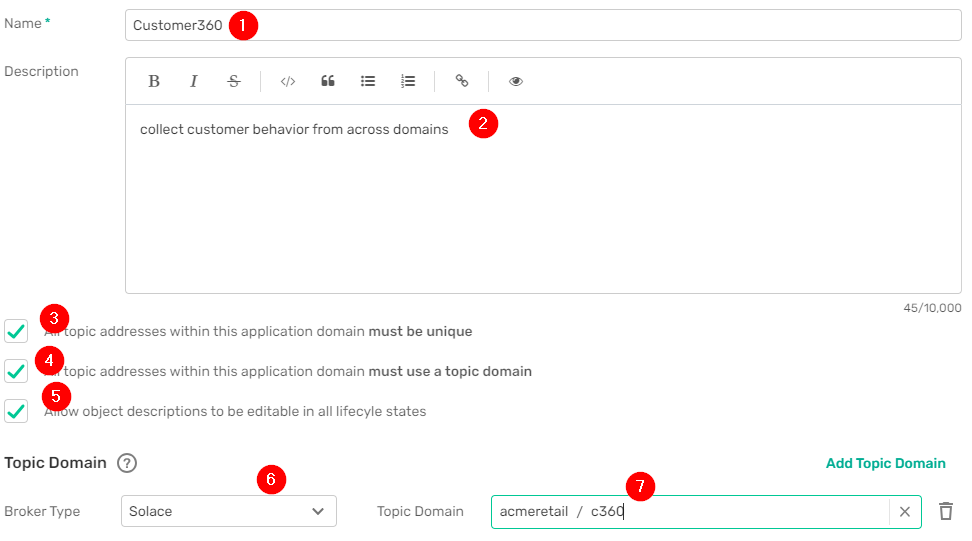
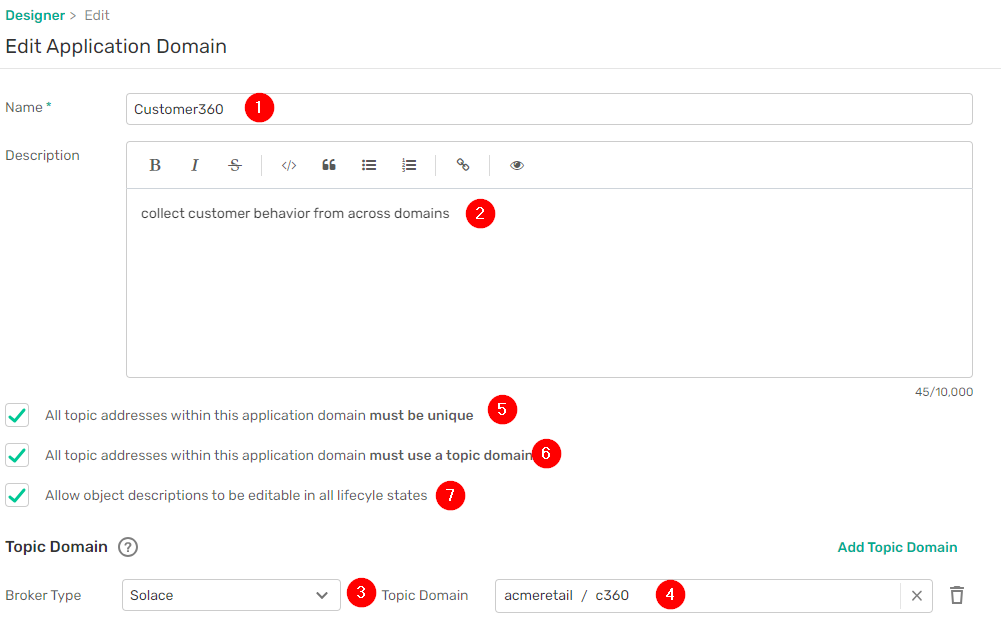
making corrections per Tamimi

diff --git a/markdown/ep-lifecycle/ep-lifecycle.md b/markdown/ep-lifecycle/ep-lifecycle.md
@@ -11,13 +11,15 @@ feedback link: https://github.com/SolaceDev/solace-dev-codelabs/blob/master/mark
 
 ## What you'll learn: Overview
 
-Duration: 0:05:00
+Duration: 0:03:00
 
-Enter a codelab overview here: what & why and github repo link where you can find related code if applicable
+Delivering innovative event-driven features to the hands of users means moving micro-integrations from development to production.  That means getting the right event infrastructure in the right environment at the right time. Event Portal makes that easier, faster and more resilient.
+
+This code lab takes you through the lifecycle of a new event-driven application, from finding relevant events to jump start development, to generating rock-solid code, to automated event configuration with your existing CICD pipeline.
 
 ## What you need: Prerequisites
 
-Duration: 0:07:00
+Duration: 0:02:00
 
 **For all sections, you'll need to:**
 - Complete the *Connecting Event Portal to a runtime Event Broker* code lab
@@ -27,30 +29,40 @@ Duration: 0:07:00
 - A GitHub account.  If you don’t have one, you can [get one free](https://github.com/signup). 
 
 ## Discover event-driven stuff you didn’t know existed
+Duration: 0:04:00
 ### Find interesting events to use in your solution
 1. In the home screen of Solace Cloud, click on Catalog.<br>![Image](img/1.png)<br><br>
 1. Within Catalog, click on the Events tab, then search for ```customer``` in the search box.  You’ll note that there are two existing customer events that would be perfect.<br>![Image](img/2.png)<br><br>
 1. Also, look for order related events by searching for ```order```<br>![Image](img/3.png)<br><br>
 
 ## Easily design EDA solutions, together 
+Duration: 0:15:00
 ### Create an Application Domain to house your application, event and schema
 1. Now that we have candidate events, click on the Designer icon in the left bar (1), then Create Application Domain. (2)<br>![Image](img/4.png)<br><br>
 1. Configure the domain:<br>
 Name (1):  ```Customer360```<br>
-Description (2): ```360 view of customer```<br>
-Select all 3 checkboxes, enforcing topic uniqueness (3), enforcing topic domain (4) and allowing descriptions to be edited  (5)<br>
-Add a Solace (6) topic domain of ``acmeretail/c360`` (7)<br>
+Description (2): ```collect customer behavior from across domains```<br>
+Add a Solace (3) topic domain of ``acmeretail/c360`` (4)<br>
+Select all 3 checkboxes, enforcing topic uniqueness (5), enforcing topic domain (6) and allowing descriptions to be edited  (7)<br>
+
 Then click on OK
 <br>![Image](img/5.png)<br><br>
 ### Graphically create your application
+1. Go into the newly created Customer360 domain.<br><br>
 1. Click on Add Objects and drag “New Application” to the canvas and name it `Customer 360`.<br>![Image](img/6.png)<br><br>
 1. Again click on Add Objects, and drag a Shared Event to the canvas<br>![Image](img/7.png)<br><br>
-1. In the popup, select *Order Created*, then click on Add. <br>![Image](img/8.png)<br><br>
-1. Repeat this process to add two more shared events. For the events, select *Customer Updated* and *Customer Created*, which you discovered in the catalog earlier. 
-1. To define which events Customer 360 subscribe to, hover over the *Order Created* event and drag the arrow to the *Customer360* application.  Repeat for *Customer Created* and *Customer Updated* events.<br>![Image](img/10.png)<br><br>
-
+1. In the popup, select *Customer Updated*, then click on Add.
+1. Repeat this process to add the *Customer Created* shared event, which you discovered in the catalog earlier. 
+1. To define which events Customer 360 subscribes to, hover over the *Order Created* event and drag the arrow to the *Customer360* application.  Repeat for *Customer Created* and *Customer Updated* events.<br>![Image](img/10.png)<br><br>
+1. Drag a “New Event” onto the canvas and call it ```Customer Insight Generated```.
+1. To define the event Customer 360 publishes, hover over the Customer360 application and drag the arrow to the Customer Insight Generated event.<br>![Image](img/published.png)<br><br>
+### Add an event directly from the catalog
+1. Navigate back to the catalog (1), click on the Events tab (2), select *Order Created* (3). <br>![Image](img/000086.png)<br><br>
+1. In the right hand column, click on the latest version  <br>![Image](img/000087.png)<br><br>
+1. Click on Associate with Application<br>![Image](img/000088.png)<br><br>
+1. Select the Customer360 domain (1), the latest Customer360 version (2), and specify that you want to subscribe to the event (3).  Then click on Save.<br>![Image](img/000089.png)<br><br>
 ### Create consumers for your application
-1. Click on the Customer 360 application and in the resulting pop up, click on Open Application<br>![Image](img/12.png)<br><br>
+1. In the resulting screen, scroll down to the Referenced By section, click on the three dots next to Customer 360, and then Open Application<br>![Image](img/000091.png)<br><br>
 1. Click on Edit This Version<br>![Image](img/13.png)<br><br>
 1. Click on the Consumers tab (1), then on Add Consumer (2)<br>![Image](img/14.png)<br><br>
 1. Name the queue ```C360.ORDERS``` (1)<br>
@@ -61,8 +73,25 @@ Then click on Add Subscriptions (4) <br>![Image](img/15.png)<br><br>
 1. Repeat the process to create the consumer for the two Customer events, naming the queue ```C360.CUSTOMERS```   When you click on Add Subscriptions, select both of the Customer events and a subscription for both.<br>![Image](img/17.png)<br><br>
 1. To save your changes, click on Save & Close.<br>![Image](img/18.png)<br><br>
 
+### Create a new Customer Insight Generated event
+1. You will use this schema file for the payload of the event.  Download it and save it to your hard drive. [Schema file](https://raw.githubusercontent.com/SolaceLabs/PostmanScripts/main/customerinsight.json)<br>
+1. Click on the Schemas tab (1)for the Customer360 domain, then click on Create Schema(2)<br>![Image](img/19.png)
+1. Name the schema ```Customer Insight```, then the Import from File button.  Navigate to the ```customerinsight.json``` schema file you just downloaded.<br>![Image](img/20.png)
+1. Click on Save and Close.
+1. Click on the Events tab (1) at the top of the screen, then click on Customer Insight Generated (2). <br>![Image](img/21.png)
+1. Click on Edit This Version<br>![Image](img/22.png)
+1. Define the Topic Address.  Start by clicking on the field and selecting the ```acmeretail/c360``` topic domain<br>![Image](img/23.png)
+1. Type in the remainder of the topic address, using brackets for parameters.  The final result should be: ```acmeretail/c360/customerinsight/generated/v1/{insighttype}/{customerid}```<br>![Image](img/24.png)
+
+1. Scroll down further and click on Select Schema.<br>![Image](img/schema.png)
+1. Select the Customer Insight schema you just created.<br>![Image](img/25.png)
+> aside positive
+> In a more production-ready use case, you would likely use an enumeration for {insighttype}.  For speed you will use an unbounded variable in this lab. 
+
+
 ## Give your developers a headstart with code generation
 ### AsyncAPI export
+Duration: 0:05:00
 1. Click on Applications (1) in the top menu, then on Customer360(2)<br>![Image](img/26.png)<br><br>
 1. Click on the three dots next to version 0.1.0 and click on Download AsyncAPI.  Save the file on your hard drive.<br>![Image](img/27.png)<br><br>
 1. In a web browser, navigate to AsyncAPI Studio at  ```https://studio.asyncapi.com```<br>![Image](img/28.png)<br><br>
@@ -76,6 +105,7 @@ Then click on Add Subscriptions (4) <br>![Image](img/15.png)<br><br>
 > aside positive
 >You’ll use the source code zip file in the CICD/GitHub Actions portion of the lab.
 ## Provide exactly the events you need, when you need them
+Duration: 0:15:00
 ### Assign your application to an environment/event broker
 1. Click on Applications, then on Customer360.<br>![Image](img/32.png)<br><br>
 1. Click on the Runtime tab.<br>![Image](img/48.png)<br><br>
@@ -106,6 +136,7 @@ Then click on Add Subscriptions (4) <br>![Image](img/15.png)<br><br>
 1. In the popup, review the details of what queues will be removed.  Then click on Remove<br>![Image](img/50.png)<br><br>
 
 ## Make your existing CICD even better
+Duration: 0:20:00
 > aside positive
 >You need to have a GitHub account for this portion.  If you don’t have one, you can [get one free](https://github.com/signup). 
 
@@ -142,9 +173,9 @@ Then click on Add Subscriptions (4) <br>![Image](img/15.png)<br><br>
 
 Duration: 0:07:00
 
-✅ < Fill IN TAKEAWAY 1>   
-✅ < Fill IN TAKEAWAY 2>   
-✅ < Fill IN TAKEAWAY 3>   
+- Finding relevant events to jump start development
+- Generating rock-solid code
+- Automated event configuration with your existing CICD pipeline.
 
 ![Soly Image Caption](img/soly.gif)
 

diff --git a/markdown/ep-connect-ep-broker/ep-connect-ep-broker.md b/markdown/ep-connect-ep-broker/ep-connect-ep-broker.md
@@ -36,16 +36,16 @@ Follow the instructions here: [Getting Started with PubSub+ Standard Edition](ht
 ### Get an Event Portal Access Token
 Duration: 0:07:00
 1. Log into your newly created Solace Platform Account
-1. Go to Token Management in Event Portal <br><![Image](img/1.png)
-1. Create a token<br>![Image](img/2.png)
+1. Go to Token Management in Event Portal <br><![Image](img/1.png)<br><br>
+1. Create a token<br>![Image](img/2.png)<br><br>
 1. Name the token ```Demo Setup```
 1. Give the token full Read and Write access to:<br>
 Event Portal 2.0<br>
 Event Portal<br>
 Account Management<br>
 Environments
-1. Click on Create Token <br><br>![Image](img/4.png)
-1. Confirm that your token has the following permissions:<br>![Image](img/5.png)
+1. Click on Create Token <br><br>![Image](img/4.png)<br><br>
+1. Confirm that your token has the following permissions:<br>![Image](img/5.png)<br><br>
 1. Copy the token value and save it in a text file on your desktop. 
 > aside positive
 > This token will be used multiple times through the demo, so keep it handy.
@@ -58,45 +58,46 @@ Duration: 0:03:00
 [Environment file](https://raw.githubusercontent.com/SolaceLabs/PostmanScripts/main/EventPortalEnvironment.postman_environment.json)<br>
 [Script to populate Event Portal](https://raw.githubusercontent.com/SolaceLabs/PostmanScripts/main/PopulateEventPortaldemo.postman_collection.json)<br>
 [Script to remove all objects from  Event Portal](https://raw.githubusercontent.com/SolaceLabs/PostmanScripts/main/TearDownEventPortal.postman_collection.json)
-1. Drag the files from your hard drive to the left-hand column of Postman to import<br>![Image](img/6.png)
+1. Drag the files from your hard drive to the left-hand column of Postman to import<br>![Image](img/6.png)<br><br>
 
 ### Configure Postman with your Event Portal token
 Duration: 0:05:00
-1. Open the environment variables tab (1), select the Event Portal Environment and (2) set it as the active Environmental variable set.<br>![Image](img/7.png)
-1. Fill in the CURRENT VALUE column for  api_key with the token you generated in Event Portal and saved in a text file.<br>![Image](img/8.png)
-1. Save the environment variables.<br>![Image](img/9.png)
+1. Open the environment variables tab (1), select the Event Portal Environment and (2) set it as the active Environmental variables.<br>![Image](img/7.png)<br><br>
+1. Fill in the CURRENT VALUE column for  api_key with the token you just generated in Event Portal.<br>![Image](img/8.png)<br><br>
+1. Save the environment variables.<br>![Image](img/9.png)<br><br>
 
 ### Run the Postman script
 Duration: 0:10:00
-1. Switch back to the Collections tab, hit the three dots next to “Generate and populate Event Portal demo”, then click “Run collection”<br>![Image](img/10.png)
-1. On the next screen, click on Run Generate and populate Event Portal<br>![Image](img/11.png)
-1. Wait for the script to complete. Be Patient, there is a lot of commands to run! 
+1. Switch back to the Collections tab, hit the three dots next to “Generate and populate Event Portal demo”, then click “Run collection”<br>![Image](img/10.png)<br><br>
+1. On the next screen, click on Run Generate and populate Event Portal<br>![Image](img/11.png)<br><br>
+1. Wait for the script to complete. Be patient, there are a lot of commands to run! 
 
 
-## Connect Event Management Agent to Event Portal
+## Enable runtime configuration for your environments
 Duration: 0:03:00
-1. To guide application promotion, Event Portal models all of your runtime environments.  To do this, go to the profile icon in the lower left hand side, then click on Environments.<br>![Image](img/12.png)
-1. To allow Event Portal to configure the runtime environment, click on the three dots, then select Enable Runtime Configuration. Do this for both Test and Prod.<br>![Image](img/13.png)
+1. To guide application promotion, Event Portal models all of your runtime environments.  To do this, go to the profile icon in the lower left hand side, then click on Environments.<br>![Image](img/12.png)<br><br>
+1. To allow Event Portal to configure the runtime environment, click on the three dots, then select Enable Runtime Configuration. Do this for both Test and Prod.<br>![Image](img/13.png)<br><br>
 ## Update the event management agent to connect to your local broker
 Duration: 0:10:00
-1. Open the Runtime Event Manager (1), then go to the Event Management Agent tab (2).   Click on the 3 dots next to your Event Managment Agent (the script created one for you).  Then click on Edit Connection Details (4).<br>![Image](img/14.png)
-1. On the next screen, click on the three dots next to the PROD-solace event broker, then click on “Edit Connection Details”<br>![Image](img/15.png)
+1. Open the Runtime Event Manager (1), then go to the Event Management Agent tab (2).   Click on the 3 dots next to your Event Managment Agent (the script created one for you).  Then click on Edit Connection Details (4).<br>![Image](img/14.png)<br><br>
+1. On the next screen, click on the three dots next to the PROD-solace event broker, then click on “Edit Connection Details”<br>![Image](img/15.png)<br><br>
 1. Update the Message VPN, SEMP username and SEMP URL to point to your local broker.<br>
 Message VPN (1) is typically: ```default```<br>
 SEMP username (2) is typically: ```admin```<br>
 SEMP URL (3) can be found, if using docker by finding the brokers ip address using the following command:<br> ```docker inspect  -f '{{range.NetworkSettings.Networks}}{{.IPAddress}}{{end}}' solace```
 
-Once you have the ip address, the SEMP_URL is typically port 8080, thus ```http://<BROKER-IP>:8080```  <br><br> Once properly configured, click on Save Changes (4)<br>![Image](img/16.png)
+Once you have the ip address, the SEMP_URL is typically port 8080, thus ```http://BROKER-IP:8080```  <br><br> Once properly configured, click on Save Changes (4)<br>![Image](img/16.png)<br><br>
 
 ## Run the Event Management Agent
 Duration: 0:10:00
 
 > aside positive
 > These instructions are also on the Event Portal once you create the Event Management Agent.
+
 Now it’s time to connect the Event Portal model and the runtime broker using the Event Management Agent.
 
-1. From the main Runtime Event Manager tab, click on the three dots and go to Install Event Management Agent<br>![Image](img/emainstall.png)
-1. Click on the download button and save the file to your hard drive. <br>![Image](img/18.png)
+1. From the main Runtime Event Manager tab, click on the three dots and go to Install Event Management Agent<br>![Image](img/emainstall.png)<br><br>
+1. Click on the download button and save the file to your hard drive. <br>![Image](img/18.png)<br><br>
 1. Execute the following commands at the command line:
 ```
 export PASSWORD_ENV_VAR_1=envVarPassword1
@@ -111,18 +112,18 @@ where ```PASSWORD_ENV_VAR_1``` is the password for your locally running broker a
 4. Confirm the connection by running:<br>
 ```docker logs -f event-management-agent```<br>
 
-The last line should be: ```Started event-management agent```<br>![Image](img/19.png)
-5. Further confirm by going back to the Event Management Agents tab.  Look to see your EMA has a green “Connected” label<br>![Image](img/20.png)
+The last line should be: ```Started event-management agent```<br>![Image](img/19.png)<br><br>
+5. Further confirm by going back to the Event Management Agents tab.  Look to see your EMA has a green “Connected” label<br>![Image](img/20.png)<br><br>
 
 
 ## Confirm EMA Connection to Broker using an Audit
 Duration: 0:05:00
 
 Since the EMA is used for both audit and for config push, we will confirm broker connectivity by running an audit.
-1. Go to Runtime Event Manager, then click on the ```us-central-solace-Prod``` modelled event mesh.<br>![Image](img/21.png)
-1. Click on Audit, then “Run Discovery Scan”<br>![Image](img/22.png)
-1. Confirm you want to run a Discovery Scan<br>![Image](img/23.png)
-1. If you see this message, you’ve successfully created a connection between the EMA and your event broker.<br>![Image](img/24.png)
+1. Go to Runtime Event Manager, then click on the ```us-central-solace-Prod``` modelled event mesh.<br>![Image](img/21.png)<br><br>
+1. Click on Audit, then “Run Discovery Scan”<br>![Image](img/22.png)<br><br>
+1. Confirm you want to run a Discovery Scan<br>![Image](img/23.png)<br><br>
+1. If you see this message, you’ve successfully created a connection between the EMA and your event broker.<br>![Image](img/24.png)<br><br>
 
 You are done!
 
